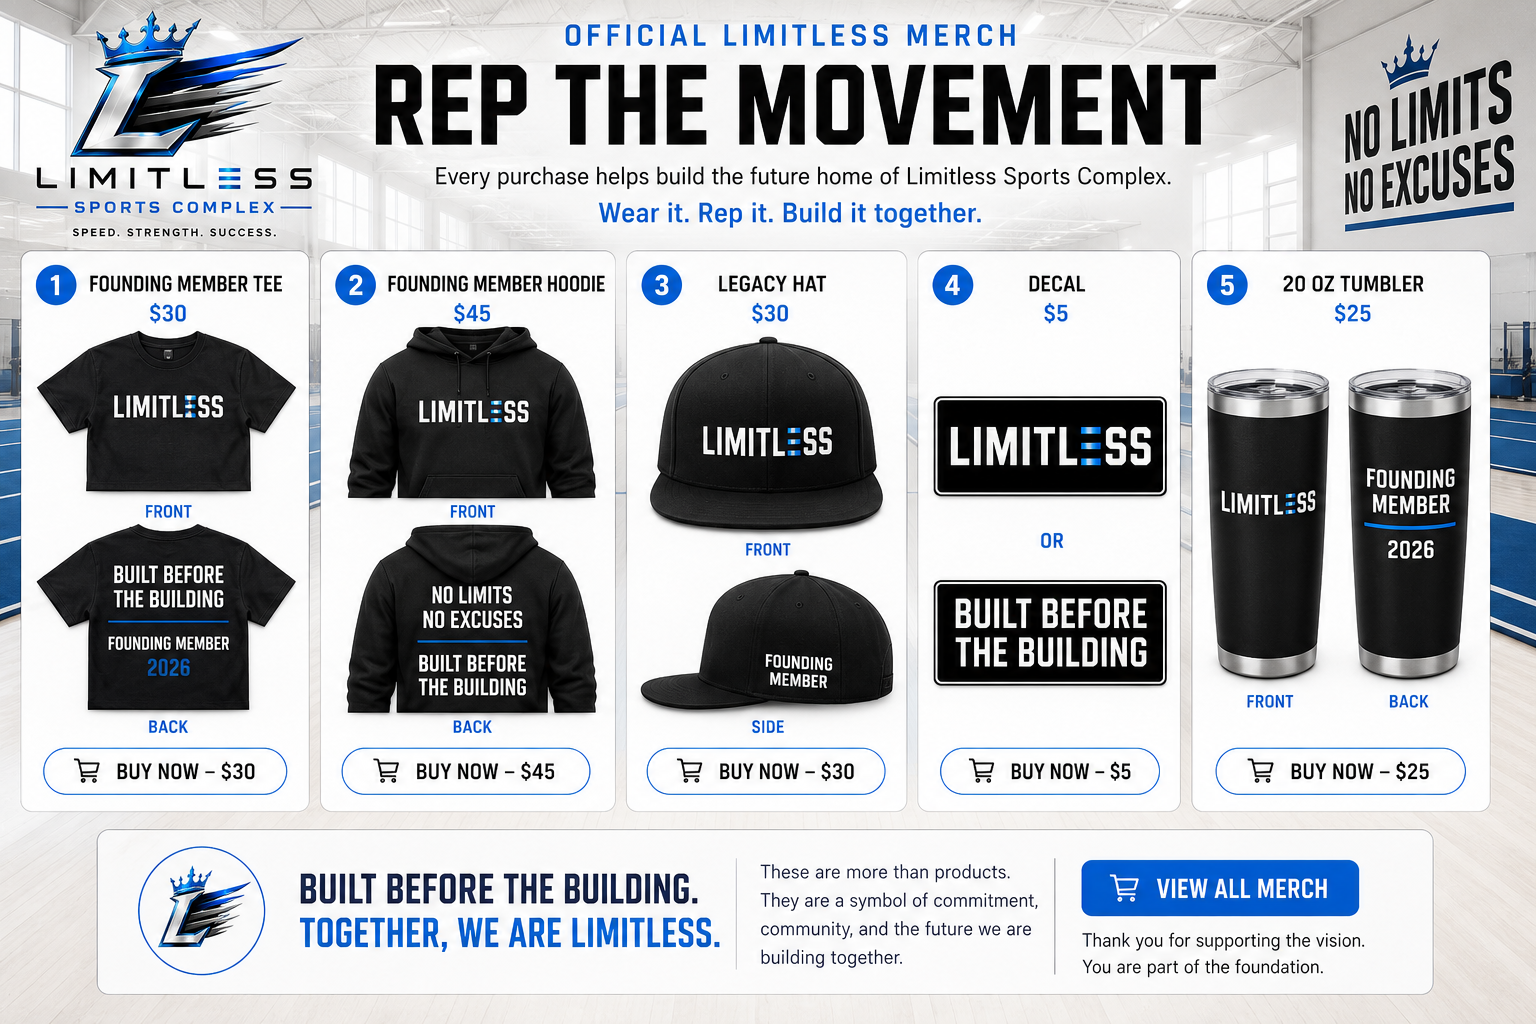
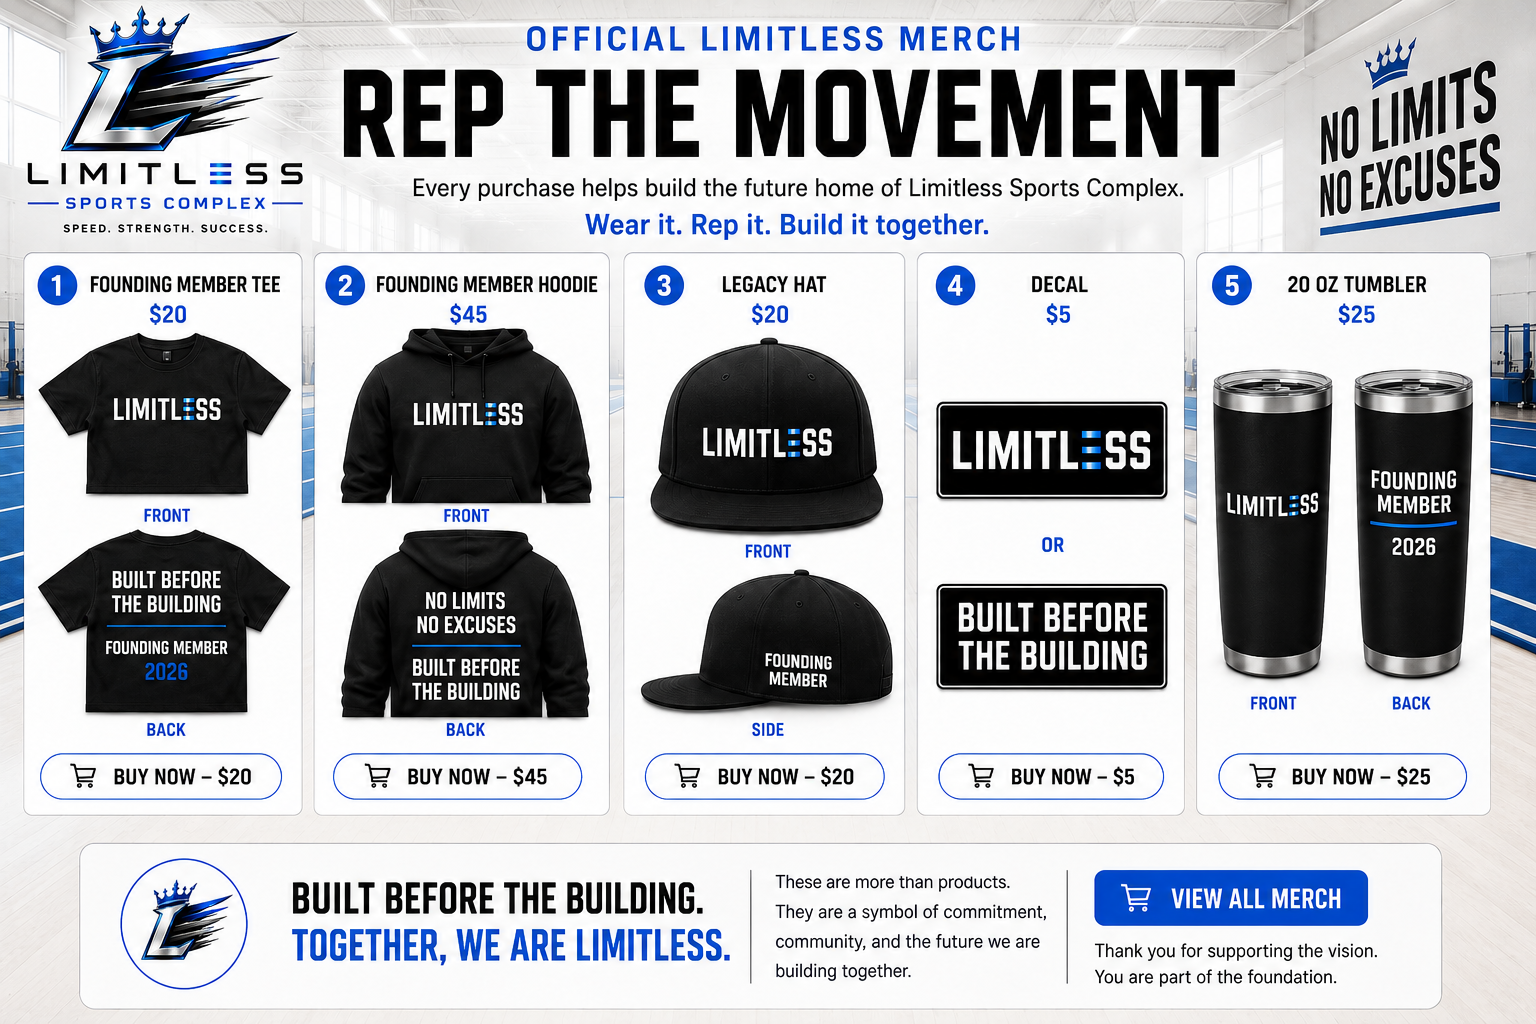
Add merch section

diff --git a/my-app/app/page.tsx b/my-app/app/page.tsx
@@ -579,7 +579,7 @@
       {[
         {
           name: "Founding Member Tee",
-          price: "$30",
+          price: "$20",
           details: ["Front: LIMITLESS", "Back: BUILT BEFORE THE BUILDING", "FOUNDING MEMBER 2026"],
         },
         {
@@ -589,7 +589,7 @@
         },
         {
           name: "Legacy Hat",
-          price: "$30",
+          price: "$20",
           details: ["Front: LIMITLESS", "Side: FOUNDING MEMBER"],
         },
         {